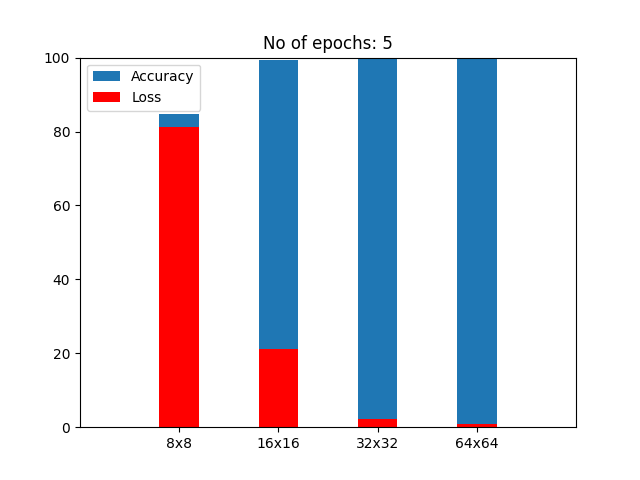
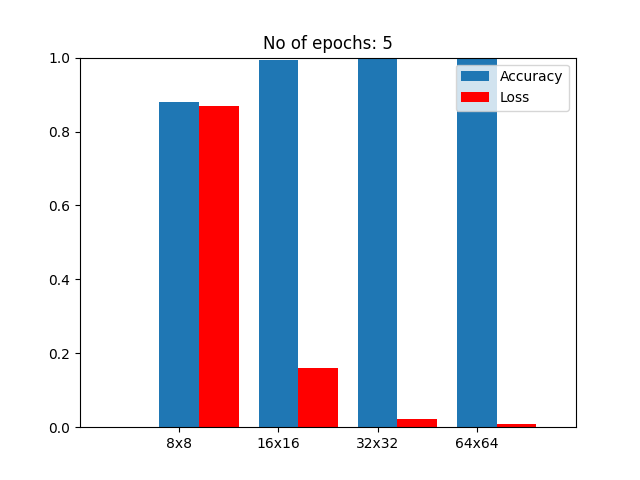
Brought back loss in performance graphs

diff --git a/README.md b/README.md
@@ -46,12 +46,6 @@ from dataset import classic_arcade_games
 For a full example, take a look at _dataset_demo.py_ in this repository,
 as well as [this Terraform tutorial](https://www.tensorflow.org/tutorials/keras/classification).
 
-# Performance
-Results for the variations of the dataset with 50% of the data used for training and the other 50% used for testing. 
-
-![Performance: 5 epochs](./figures/accuracy_5_epochs.png)
-![Performance: 2 epochs](./figures/accuracy_2_epochs.png)
-
 # Data
 The data in this dataset has been collected by running MAME and manually
 creating screendumps from the chosen sequenze in the game.
@@ -81,3 +75,11 @@ Examples of what the squared screendumps look like.
 ![Grayscale: 16x16](./figures/16x16_5x5_01.png)
 ![Grayscale: 32x32](./figures/32x32_5x5_01.png)
 ![Grayscale: 64x64](./figures/64x64_5x5_01.png)
+
+# Performance
+Results for the variations of the dataset with 50% of the data used for training and the other 50% used for testing. 
+
+
+![](./figures/acc_loss_2_epochs.png)
+![](./figures/acc_loss_5_epochs.png)
+![](./figures/acc_loss_10_epochs.png)
